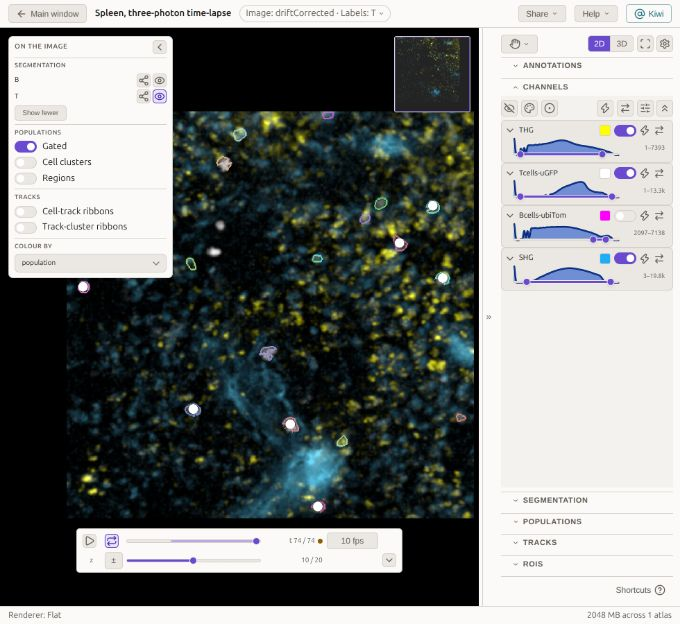
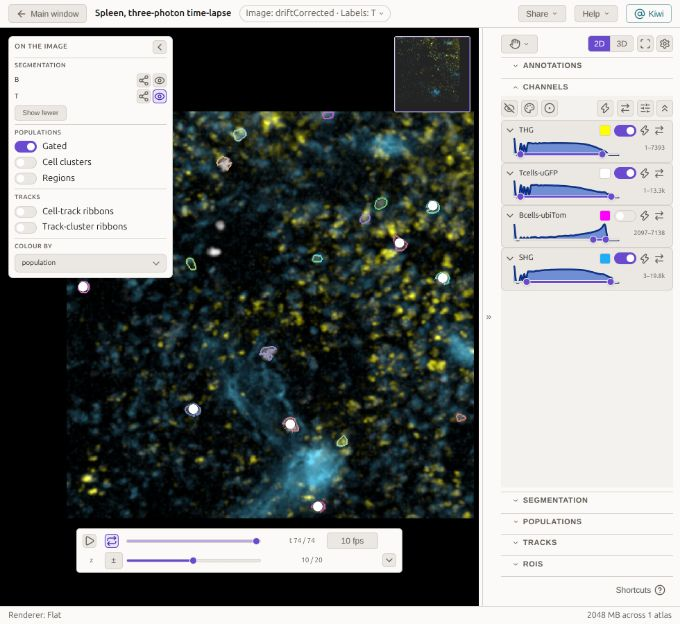
feat: local contact sheet for screenshot review; deterministic captures
Finishes docs/todo/PR_CAPTURES_PLAN.md.

- pixi run doc-sheet (scripts/docshots/sheet.mjs): every image new, changed or removed against a ref
  (default origin/main), before from git and after from the working tree (or a review folder outside
  the repo), as docshots-out/sheet/index.html + sheet.png. Local only: fixture images never go into a
  PR (maintainer, 2026-11-15); the PR template line says so.
- Captures are deterministic. Measured: the Gate page was byte-identical across two runs; the viewer
  window differed in 0.17% of pixels (histograms and loaded strip still filling in, and a focus ring).
  capture.mjs now waits until two screenshots in a row are identical (fails the shot after 10 s) and
  blurs the focused control; two more runs per scheme were then byte-identical. The planned
  no-rewrite compare is dropped: an unchanged capture writes the same bytes.
- The README viewer images recaptured once in that settled state (histograms complete).
- capture.mjs writes, and checks labels against, only the facts of projects a set still names (a
  re-capture had put the dropped lymphoid facts back into the readme facts).
- Plan answered and marked built; index, inventory and the shots README updated.

Reservations:
- [conv-5b050fec: fixed_pre_commit] sheet.mjs uses commit() from scripts/lib/chromium.mjs.
- [fanout-be18ed29: fixed_pre_commit] the filtered facts replace the record before the shots run, so
  label and stable checks see the same facts compose will.
[…]

diff --git a/docs/inventory/FRONTEND.md b/docs/inventory/FRONTEND.md
@@ -45,7 +45,7 @@
   - **GUI capture — measured screenshots + visible-control counts**: `scripts/gui_capture.mjs` → `pixi run gui-capture -- --base <vite url> --config-dir <dir> [--project UID,…]`. Drives a running instance headlessly (`playwright-core` + system Chromium, `CECELIA_CHROMIUM`), opens projects through the `projectMeta` store, visits every routed page via the router, and writes PNGs + `census.md`/`census.json` (controls inside `.cc-main` vs chrome, above the fold). For before/after shots of UI changes (`docs/todo/GUI_CLARITY_PLAN.md`). **Isolated instance only** (own `CECELIA_DEV_DIR` + `CECELIA_PORT_SLOT`): opening a project writes (`--peek` uses the view-only `peekProject`, minus saved module canvases), and the script refuses 8080/5173.
   - **Page-script browser**: `scripts/lib/chromium.mjs` — `chromium` (playwright-core from the frontend's devDependencies), `findChromium()` (system Chromium; `CECELIA_CHROMIUM` picks it) and `repo`. Shared by `gui_capture.mjs` and `scripts/docshots/`; a new Node script that drives a browser imports it instead of resolving Chromium again.
   - **Driving a running app from Node**: `scripts/lib/app_page.mjs` — `signIn` (instance token), `vue(page, fn)` (stores + router), `closeDialogs`, `settle` (network idle + no visible spinner/"Loading…", not a timer), `openProject`, `land(route, scope, images)` (the app's `focusImages`), `selectProfile` (server-active profile, waits out the app's adopting reload), `refuseSlotZero`. Used by `gui_capture.mjs` and `scripts/docshots/{capture,fixture}.mjs`.
-  - **User-docs screenshots (docshots)**: `user-docs/shots/` — one `ShotSet` per page: a user-docs page, the repo `README.md` (`readme.ts`) or the app (`in-app.ts`); lab fixtures shared by sets in `fixtures.ts` (`spec.ts`: `Shot`, `Fixture`, `checkShotSets`, fixture facts `{{project.image.fact}}` + `fillFacts`), the registry `index.ts`, how to write one in `README.md`. Fixtures: `pixi run doc-fixture` (`scripts/docshots/fixture.mjs`) sets up a set's `fixture` on the instance — lab images copied (`agent_eval/app_project.py --into`, `--with-results` for segmentation and cell tables), channel names, gates recreated through the population manager's route (a box in raw values, or the source's own gate or filter), profiles with AI on/off, one saved Kiwi reply, measured facts (planes, channels, timepoints, interval, gate counts, tracks) — recorded in `<config-dir>/docshot-fixtures.json`. Screenshots: `pixi run doc-shots` (`scripts/docshots/capture.mjs`) against an ISOLATED instance — fresh context per shot, once per colour scheme the set names (`themes`, set and read back), 2×, anchors via the guides' `anchorSelector`, viewer shots in a headed WebGPU window on the second screen with their state read back; fails on a missing anchor, a changed cited label or fact, or a stale time in the crop — writes PNG + recorded boxes. `pixi run doc-images` (`compose.mjs`) crops and draws the pointer in the image's scheme (`figure.ts`, pure) into `user-docs/images/` (`spec.ts → imageFile`: `<id>.png` light, `<id>.dark.png`, a viewer picture once as `<id>.jpg`) + `images.json` (widths) + `facts.json` (the fixtures' facts, for captions); refuses a capture in the wrong scheme. Pages that show them are generated, so app text is imported, not retyped: `utils/usingAiDoc.ts` → `user-docs/using-ai.md`; `utils/readmeShots.ts` → the `docshots` block of `README.md` (captions from facts, `<picture>` for both schemes). In the app: `lib/docShots.ts` (`docShotUrl(id, scheme)`) for What's new cards (`lib/whatsNew.ts` → `shot`, `FEATURE_CARDS`, `featureFor`) and tips. CI: `utils/docShots.test.ts` (shot checks, every data-guide id exists, every image composed in each scheme, figure geometry, feature cards), `utils/usingAiDoc.test.ts`, `utils/readmeShots.test.ts` (pages up to date).
+  - **User-docs screenshots (docshots)**: `user-docs/shots/` — one `ShotSet` per page: a user-docs page, the repo `README.md` (`readme.ts`) or the app (`in-app.ts`); lab fixtures shared by sets in `fixtures.ts` (`spec.ts`: `Shot`, `Fixture`, `checkShotSets`, fixture facts `{{project.image.fact}}` + `fillFacts`), the registry `index.ts`, how to write one in `README.md`. Fixtures: `pixi run doc-fixture` (`scripts/docshots/fixture.mjs`) sets up a set's `fixture` on the instance — lab images copied (`agent_eval/app_project.py --into`, `--with-results` for segmentation and cell tables), channel names, gates recreated through the population manager's route (a box in raw values, or the source's own gate or filter), profiles with AI on/off, one saved Kiwi reply, measured facts (planes, channels, timepoints, interval, gate counts, tracks) — recorded in `<config-dir>/docshot-fixtures.json`. Screenshots: `pixi run doc-shots` (`scripts/docshots/capture.mjs`) against an ISOLATED instance — fresh context per shot, once per colour scheme the set names (`themes`, set and read back), 2×, anchors via the guides' `anchorSelector`, viewer shots in a headed WebGPU window on the second screen with their state read back; fails on a missing anchor, a changed cited label or fact, or a stale time in the crop — writes PNG + recorded boxes. `pixi run doc-images` (`compose.mjs`) crops and draws the pointer in the image's scheme (`figure.ts`, pure) into `user-docs/images/` (`spec.ts → imageFile`: `<id>.png` light, `<id>.dark.png`, a viewer picture once as `<id>.jpg`, a whole-window `overview` as `<id>.jpg` / `<id>.dark.jpg`) + `images.json` (widths) + `facts.json` (the fixtures' facts, for captions); refuses a capture in the wrong scheme. Pages that show them are generated, so app text is imported, not retyped: `utils/usingAiDoc.ts` → `user-docs/using-ai.md`; `utils/readmeShots.ts` → the `docshots` block of `README.md` (captions from facts, `<picture>` for both schemes). In the app: `lib/docShots.ts` (`docShotUrl(id, scheme)`) for What's new cards (`lib/whatsNew.ts` → `shot`, `FEATURE_CARDS`, `featureFor`) and tips. CI: `utils/docShots.test.ts` (shot checks, every data-guide id exists, every image composed in each scheme, figure geometry, feature cards), `utils/usingAiDoc.test.ts`, `utils/readmeShots.test.ts` (pages up to date), no image no shot composes; `test_repo_images_convention.py` (size limits, no image outside its folders). Review: `pixi run doc-sheet` (`scripts/docshots/sheet.mjs`) — every image new/changed/removed against a ref, before (git) and after, as `docshots-out/sheet/index.html` + `sheet.png`; local only (lab data). A capture is taken once its pixels stop changing, with no focus ring, so an unchanged page writes the same bytes.
 - **appControl store** (`stores/appControl.ts`): all app-lifecycle actions — `quit`, `logOutUser` (sidebar Log out: Claude logout → forced profile picker) + `logOutClaude` (the ONE active-profile Claude logout; Kiwi's Account row uses it too), `checkUpdate`/`applyUpdate`/`restartToUpdate` (gated for every surface by `composables/useRestartToUpdate.ts`), dev `restartBackend`/`switchWorktree`, setup state.
 - **ws store** (`stores/ws.ts`): THE WebSocket client (connect/reconnect/`send`/`on`/`off`); dispatches all `task:*`/`chain:*`/`napari:*`/`server:log` events.
 - **Manual chain steps (continue a parked step)**: `utils/chainManual.ts` — `waitingByNode`, `continueFrame` (the `chain:continue` frame), `refusalLines`. Used by the chain Live view (node Continue + toolbar *Continue N*) and `ws.ts` (`chain:continue:result`). Backend: `app/src/tasks/chain/manual.jl`.

diff --git a/docs/todo/README.md b/docs/todo/README.md
@@ -67,7 +67,7 @@ disagree, the plan's header wins — and fix the row.
 | [`JOURNEY_WORKFLOW_REVIEW.md`](JOURNEY_WORKFLOW_REVIEW.md) | **draft** (2026-11-10), N1–N8 all decided (plan Decisions 13–17) | The journey-bar idea (a top bar of analysis stages replacing the sidebar, viewer popout-only) and the now+ / journey mocks, judged against `GUI_CLARITY_PLAN.md`, the audit and the code. Verdict adopt in part: now+ is mostly audit slices plus a recipe stored per set (suggested from the T axis, confirmed by the user) that lights pages and feeds `#next`, a viewer chip and a blocked-pop-up message; do not hide pages by data type (View Profiles D2, "no default path"); hold the journey bar. Mocks break 5 locked rules and fail AA twice. Palette from the source paintings with roles and contrast. Brief: [`../archive/JOURNEY_WORKFLOW_IDEA.md`](../archive/JOURNEY_WORKFLOW_IDEA.md) |
 | [`GUI_CLARITY_PLAN.md`](GUI_CLARITY_PLAN.md) | **built, awaiting review** (2026-11-11). All 12 audit slices merged (#2085–#2106); decisions 1–17 locked; journey bar parked | A light, consistent, structured GUI. Three failure modes: "where do I click now?", a buried check (acquisition / claims / QC), and unconnected pages with different layouts and feel. "Light" means the feel (less chrome, more air) and the app stays dark. Consistency (one page skeleton, shared panel components) ranks with the other two. Palette of warm desert earths, at most ~10% of a screen, kept off the viewer and plots. Phases: audit → central tokens and chrome → one page skeleton → surface the checks → next step and empty states. Open: screenshot source, usage evidence, per-recipe spine vs the map's no-default-path, palette mock. Brief: [`../archive/GUI_CLARITY_AUDIT_PROMPT.md`](../archive/GUI_CLARITY_AUDIT_PROMPT.md) |
 | [`GUIDE_SCREENSHOTS_PLAN.md`](GUIDE_SCREENSHOTS_PLAN.md) | **parked** (2026-11-13) — trials + three draft booklets done locally; the capture engine was built for the (since ended) booklets and now makes the user docs' screenshots (`user-docs/shots/`, `scripts/docshots/`) | Screenshots generated from the real app by script, for the in-app guides, the docs site and one-slide summaries. Extends `scripts/gui_capture.mjs` with a shot manifest (crop, highlight, 2× scale, Dark/Light, masks); viewer image area from the offline renderer (headless Chromium cannot draw a WebGPU canvas: Vulkan shared-image import fails); slide plot tiles via `board_render.py`. Guide steps have no image field yet. Brief: [`../archive/GUIDE_SCREENSHOTS_PROMPT.md`](../archive/GUIDE_SCREENSHOTS_PROMPT.md) |
-| [`PR_CAPTURES_PLAN.md`](PR_CAPTURES_PLAN.md) | **P1 built** (2026-11-15); P2 contact sheet and the no-rewrite compare open | GUI captures on PRs without growing the repo or the package. Review captures stay local (a per-PR contact sheet; `gh` cannot attach images, CI has no fixtures); only images a page shows are committed. Checks: a size limit on `user-docs/images/`, no orphans, no stray binaries, `docs/todo` images out of the stable tarball. Brief: [`../archive/pr_gui_captures_brief.md`](../archive/pr_gui_captures_brief.md) |
+| [`PR_CAPTURES_PLAN.md`](PR_CAPTURES_PLAN.md) | **built** (2026-11-15): checks, contact sheet (`pixi run doc-sheet`), packaging; no-rewrite compare dropped (captures deterministic) | GUI captures on PRs without growing the repo or the package. Review captures stay local (a per-PR contact sheet; `gh` cannot attach images, CI has no fixtures); only images a page shows are committed. Checks: a size limit on `user-docs/images/`, no orphans, no stray binaries, `docs/todo` images out of the stable tarball. Brief: [`../archive/pr_gui_captures_brief.md`](../archive/pr_gui_captures_brief.md) |
 | [`GUI_LAYOUT_PLAN.md`](GUI_LAYOUT_PLAN.md) | **built, awaiting review** (2026-11-12). Decisions 1–7 locked; every slice merged, playback bar tightened (#2183, #2192); M7's "to review" count dropped | Builds the final layout mocks for both windows (`gui-layout/mock_final.html` is the spec): header Help menu and launchers out of the sidebar, set row and result line, Next footer, default plots, Welcome; the viewer gets a header with provenance and a way back, a playback bar on the image, a View/Select/Edit switch, Share menu and a reserved Edit slot. Simplify by moving, never cutting: a today → new home table per window. `ViewerWindow.vue` (7.4k lines) is split along the seams the layout moves, behaviour-neutral, before each viewer slice. Correction cockpit redesign is a separate plan |
 | [`FIGURES_PLAN.md`](FIGURES_PLAN.md) | **parked** (2026-11-01) — not started; un-park on the next figure request | Paper figures (a still, a filmstrip or a z-strip of one cell) from the raw data at native resolution, in one standard look. Separate from the Analysis board, which is a live overview of the analysis; a figure is a fixed artifact. Builds on ANIMATION_PLAN's view snapshot: a spec is snapshot tiles + frames + layout + style, rendered by the shared still renderer (`render_stills`), registered in the movie registry as `configKind: "figure"` (open decision A); kinds `sequence` + `zstack`. Came from a PI request answered by a bespoke script; phases P0 one-off → P1 headless spec/renderer → P2 Figures page → P3 Claude tools (#1856 pattern) → P4 staleness |
 | [`MOTILITY_METRICS_PLAN.md`](MOTILITY_METRICS_PLAN.md) | **in progress (2026-10-31)** — P0 done; P1 #1862, P4 #1865, P2 #1868 merged; P3 scoped (P3a/P3b) not started | What the Pizzagalli/Cabini/Wortel (2025) motility review recommends that we lack, and where each fits: arrest as generic per-track **dwell in a population** (also contact bouts + HMM/motif state dwell, KM-summarised as censored data) as a compute-on-read aggregate family in `track_props`; **tracklets** as per-cell centred-window columns with the window in minutes (resolves FUTURE.md *Temporal downsampling / overlapping tracklets*); duration-bias QC, Fürth fit + noise floor and order index in the `track_diagnostics` battery; approach index toward a target population from the contacts columns. Supersedes `BEHAVIOUR_READOUT_PLAN` P2's arrest item |

diff --git a/docs/todo/PR_CAPTURES_PLAN.md b/docs/todo/PR_CAPTURES_PLAN.md
@@ -1,6 +1,6 @@
 # GUI captures on PRs, without growing the repo or the package
 
-**Status:** P1 built (2026-11-15): the checks, the template line, overview shots as JPEG, `docs/todo` images out of the stable tarball (P3's packaging half). P2 (contact sheet) and the no-rewrite compare open. Brief: [`../archive/pr_gui_captures_brief.md`](../archive/pr_gui_captures_brief.md).
+**Status:** built (2026-11-15): P1 checks, P2 contact sheet (`pixi run doc-sheet`), P3 packaging; the no-rewrite compare dropped (captures are now deterministic, so an identical capture makes no new blob). Open questions answered below.
 
 A PR that changes what a user sees should show it, and the images that show it should not end up in git
 history or in the installed app. The screenshot engine already exists (`user-docs/shots/`,
@@ -27,17 +27,16 @@ captures go and the checks that keep committed images small.
 - **CI cannot capture.** The fixtures are lab projects on the developer's machine (4kS67f, 4rNbMp), and
   viewer shots need a headed Chromium with WebGPU on a display.
 
-## Decisions to lock
+## Decisions (locked 2026-11-15)
 
 1. **Review captures stay local.** The agent captures on its isolated instance and builds a per-PR
-   contact sheet (the "needs your eyes" sheet), written to the scratchpad or `~/Downloads/TMP`, never
-   to git. The maintainer drags an image into the PR only when one is worth keeping in public. Release
-   assets and a screenshots branch are both permanent and public, so neither is used.
+   contact sheet (the "needs your eyes" sheet) in `docshots-out/sheet/`, git-ignored, never in git and
+   never attached to a PR: the fixtures are lab data. Release assets and a screenshots branch are both
+   permanent and public, so neither is used.
 2. **The PR names its shots; nothing maps a diff to a control.** A PR that changes visible UI lists the
    shot ids it changed (or ad-hoc `data-guide` anchors). The sheet captures those.
-3. **"Before" only when it changes something that was already there.** The sheet captures main and the
-   branch for a shot that already existed or a control that changed. A new control needs "after" only.
-   Before/after for every change doubles the capture time.
+3. **"Before" is the committed image.** The sheet compares the branch's images with the ref's, so only
+   the branch is captured; a new shot has no before.
 4. **Only images a page shows are committed**, under `user-docs/images/`, within the size limits below.
 5. **No WebP.** Pictures of the image are already JPEG q80 at the width they are shown; the UI shots are
    small PNGs.
@@ -66,12 +65,26 @@ to the recital.
 - **P1** (built) checks: size limit and stray images (`python/cecelia/tests/test_repo_images_convention.py`),
   orphans (`frontend/src/utils/docShots.test.ts`); the template line; whole-window `overview` shots as JPEG
   (the README hero went from 942 kB to 244 kB across both schemes).
-- **P2** the contact sheet: `pixi run doc-sheet -- --shots <ids> [--before main]`, captures on the
-  isolated instance, writes one HTML or PNG sheet per PR outside the repo.
-- **P3** packaging: `docs/todo` images out of the stable tarball (built, in P1); no-rewrite in compose (open).
+- **P2** (built) the contact sheet: `pixi run doc-sheet [-- --ref origin/main] [--after DIR] [--all]`
+  (`scripts/docshots/sheet.mjs`). Before is the image at the ref (git), after the working file; it lists
+  every new, changed or removed image and writes `docshots-out/sheet/index.html` and `sheet.png`
+  (git-ignored). A review capture that is not a docs image is composed outside the repo and the sheet
+  pointed at it (`--after`). "Before" is the committed image, so nothing is captured twice.
+- **P3** packaging: `docs/todo` images out of the stable tarball (built, in P1); no-rewrite in compose (dropped, see *Answered*).
 
-## Open
+## Answered (2026-11-15)
 
-- **Fixture data rights.** The lab images are already public in the README. Whether they may also appear
-  in PR attachments is the maintainer's call.
-- **Re-capture determinism.** Not measured; P3's pixel compare covers it either way.
+- **Fixture data rights: no.** Fixture images never go into a PR body or comment. The contact sheet
+  stays on the developer's machine; images a page shows stay in `user-docs/images/` (the README's and
+  the docs' are already public).
+- **Re-capture determinism: yes, after two fixes.** Measured by capturing the same shots twice:
+  - the Gate page (headless) came out byte-identical;
+  - the viewer window (headed, WebGPU) differed in 0.17% of its pixels: not the image, but its channel
+    histograms and the loaded-range strip, still filling in as data streamed, and in one run the focus
+    ring of the last toggle clicked. `capture.mjs` now screenshots until two in a row are identical
+    (up to 10 s, failing the shot otherwise) and blurs the focused control first. Two more runs per
+    scheme were then byte-identical.
+  - compose was already byte-identical from the same captures.
+
+  So the planned no-rewrite compare in compose is dropped: an unchanged capture writes the same bytes,
+  and git stores nothing new.

diff --git a/.github/PULL_REQUEST_TEMPLATE.md b/.github/PULL_REQUEST_TEMPLATE.md
@@ -14,7 +14,7 @@ conventions in CLAUDE.md and docs/DEV.md — it's a reminder, not paperwork.
 - [ ] Docs updated (the per-area doc in `docs/`, and `CLAUDE.md` if a convention changed).
 - [ ] **Discovery-first**: checked the matching `docs/inventory/*.md` + grepped before adding anything cross-cutting; reused the canonical helper rather than rolling a new one. Added a line to the area file if a new shared component was added.
 - [ ] No analysis logic leaked into the API or frontend (it lives in `Cecelia.jl`); no new language added.
-- [ ] GUI: a change a user sees (a `.vue` file, a style, any text they read) lists its shots and the contact sheet stays on your machine, never in the repo; otherwise "no visible change". Committed images go in `user-docs/images/` only (`docs/todo/PR_CAPTURES_PLAN.md`).
+- [ ] GUI: a change a user sees (a `.vue` file, a style, any text they read) lists its shots; the contact sheet (`pixi run doc-sheet`) stays on your machine, never in the repo or a PR comment (lab data); otherwise "no visible change". Committed images go in `user-docs/images/` only (`docs/todo/PR_CAPTURES_PLAN.md`).
 - [ ] AI-written? The body ends with the footer naming the model id + Claude Code version (agent PRs: the Bash guard prints the line).
 
 ## Notes / caveats

diff --git a/user-docs/shots/README.md b/user-docs/shots/README.md
@@ -29,7 +29,12 @@ pixi run doc-shots   -- --base <url> --config-dir <dir>
 pixi run doc-images
 npx vitest run src/utils/usingAiDoc.test.ts -u      # in frontend/: the pages pick up the new widths
 npx vitest run src/utils/readmeShots.test.ts -u     #   and the README its captions' facts
+pixi run doc-sheet                                  # before/after of every changed image, local only
 ```
+
+A capture is taken once its pixels stop changing (the viewer's histograms fill in as data streams), with
+no focus ring, so capturing an unchanged page writes the same bytes. The contact sheet
+(`docshots-out/sheet/`) is for review on this machine: the fixtures are lab data, never attached to a PR.
 
 **Colour schemes.** A set names its `themes`; every shot is captured in each, the scheme set on the app
 and read back off the page before the screenshot. Compose refuses a capture in another scheme, and the
